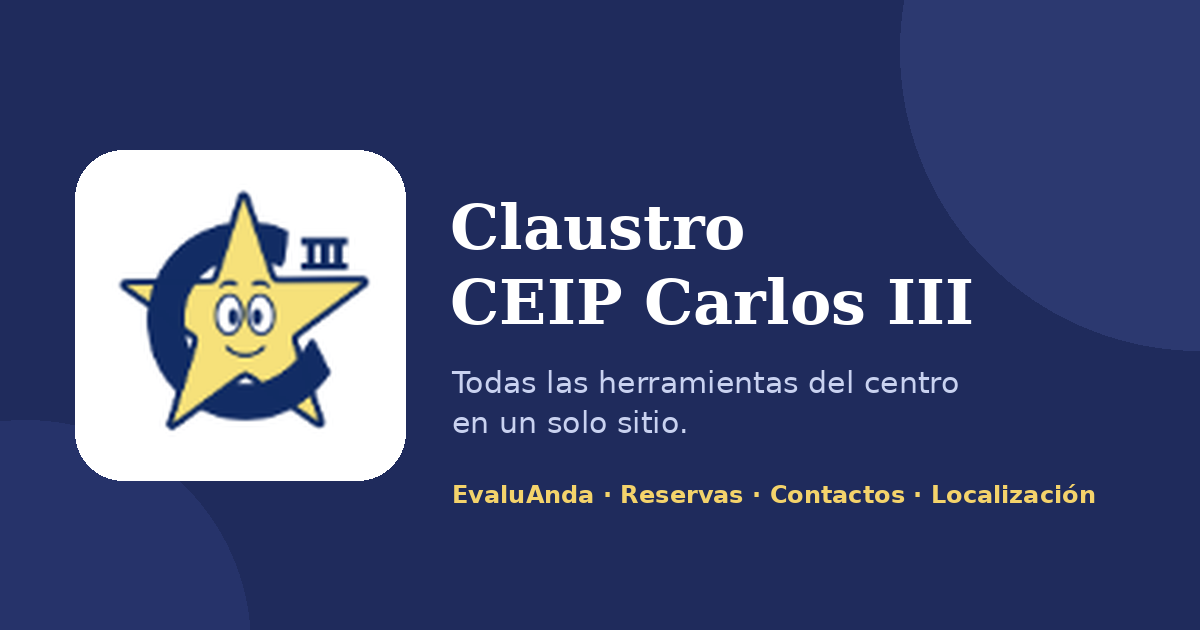
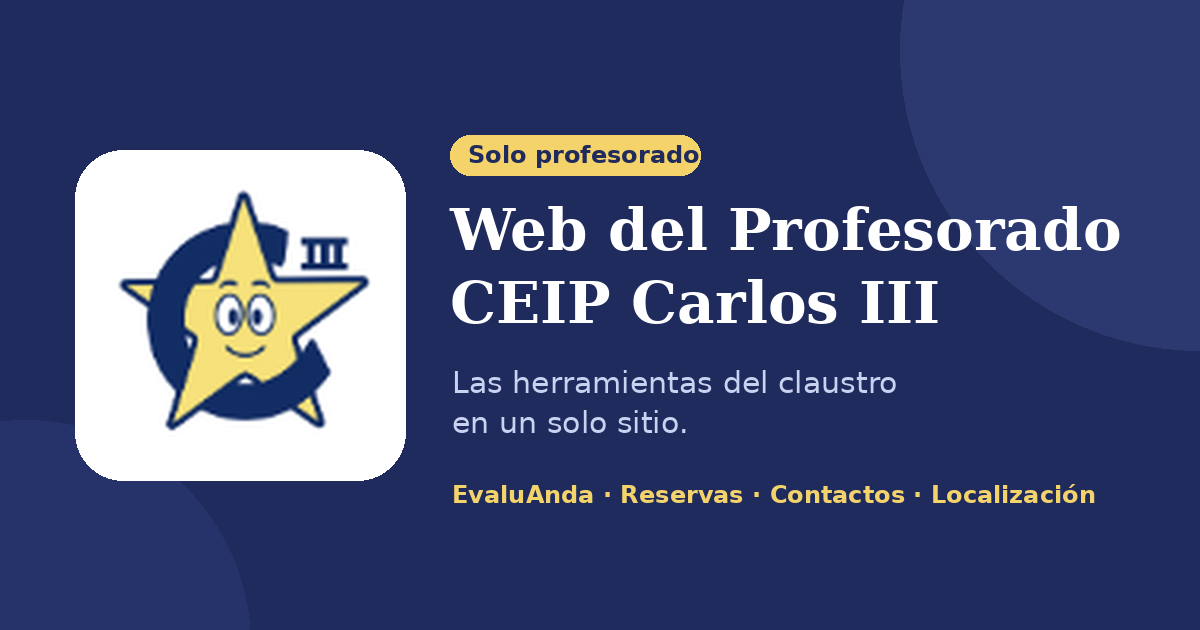
Textos de la vista previa: web del profesorado
Claude-Session: https://claude.ai/code/session_01RpnjJ3p9WKm4r9MUPXrSz4

Changed region(s): [[0.37, 0.2111, 0.9558, 0.5127], [0.37, 0.573, 0.8017, 0.6333]]

diff --git a/index.html b/index.html
@@ -3,12 +3,12 @@
 <head>
 <meta charset="utf-8">
 <meta name="viewport" content="width=device-width, initial-scale=1">
-<title>Claustro CEIP Carlos III</title>
-<meta name="description" content="Todas las herramientas del centro en un solo sitio: EvaluAnda, Reservas, Contactos y Localización.">
+<title>Web del Profesorado · CEIP Carlos III</title>
+<meta name="description" content="Web del profesorado del CEIP Carlos III: EvaluAnda, Reservas, Contactos y Localización. Acceso con la cuenta educaand.">
 <meta property="og:type" content="website">
 <meta property="og:site_name" content="CEIP Carlos III">
-<meta property="og:title" content="Claustro CEIP Carlos III">
-<meta property="og:description" content="Todas las herramientas del centro en un solo sitio.">
+<meta property="og:title" content="Web del Profesorado · CEIP Carlos III">
+<meta property="og:description" content="Las herramientas del claustro en un solo sitio. Acceso con la cuenta educaand.">
 <meta property="og:url" content="https://ceipcarlostercero.github.io/">
 <meta property="og:image" content="https://ceipcarlostercero.github.io/og.png">
 <meta property="og:image:width" content="1200">
@@ -23,6 +23,6 @@
 <style>body{font-family:system-ui,sans-serif;display:grid;place-items:center;min-height:100vh;margin:0;background:#f5f7fa;color:#222}a{color:#1a73e8}</style>
 </head>
 <body>
-<p>Redirigiendo a la web del claustro… <a href="https://accounts.google.com/v3/signin/accountchooser?continue=https%3A%2F%2Fsites.google.com%2Fg.educaand.es%2Fceipcarlostercero%2Fclaustro&amp;flowName=GlifWebSignIn&amp;flowEntry=AccountChooser">Pulsa aquí si no se abre</a>.</p>
+<p>Redirigiendo a la web del profesorado… <a href="https://accounts.google.com/v3/signin/accountchooser?continue=https%3A%2F%2Fsites.google.com%2Fg.educaand.es%2Fceipcarlostercero%2Fclaustro&amp;flowName=GlifWebSignIn&amp;flowEntry=AccountChooser">Pulsa aquí si no se abre</a>.</p>
 </body>
 </html>
